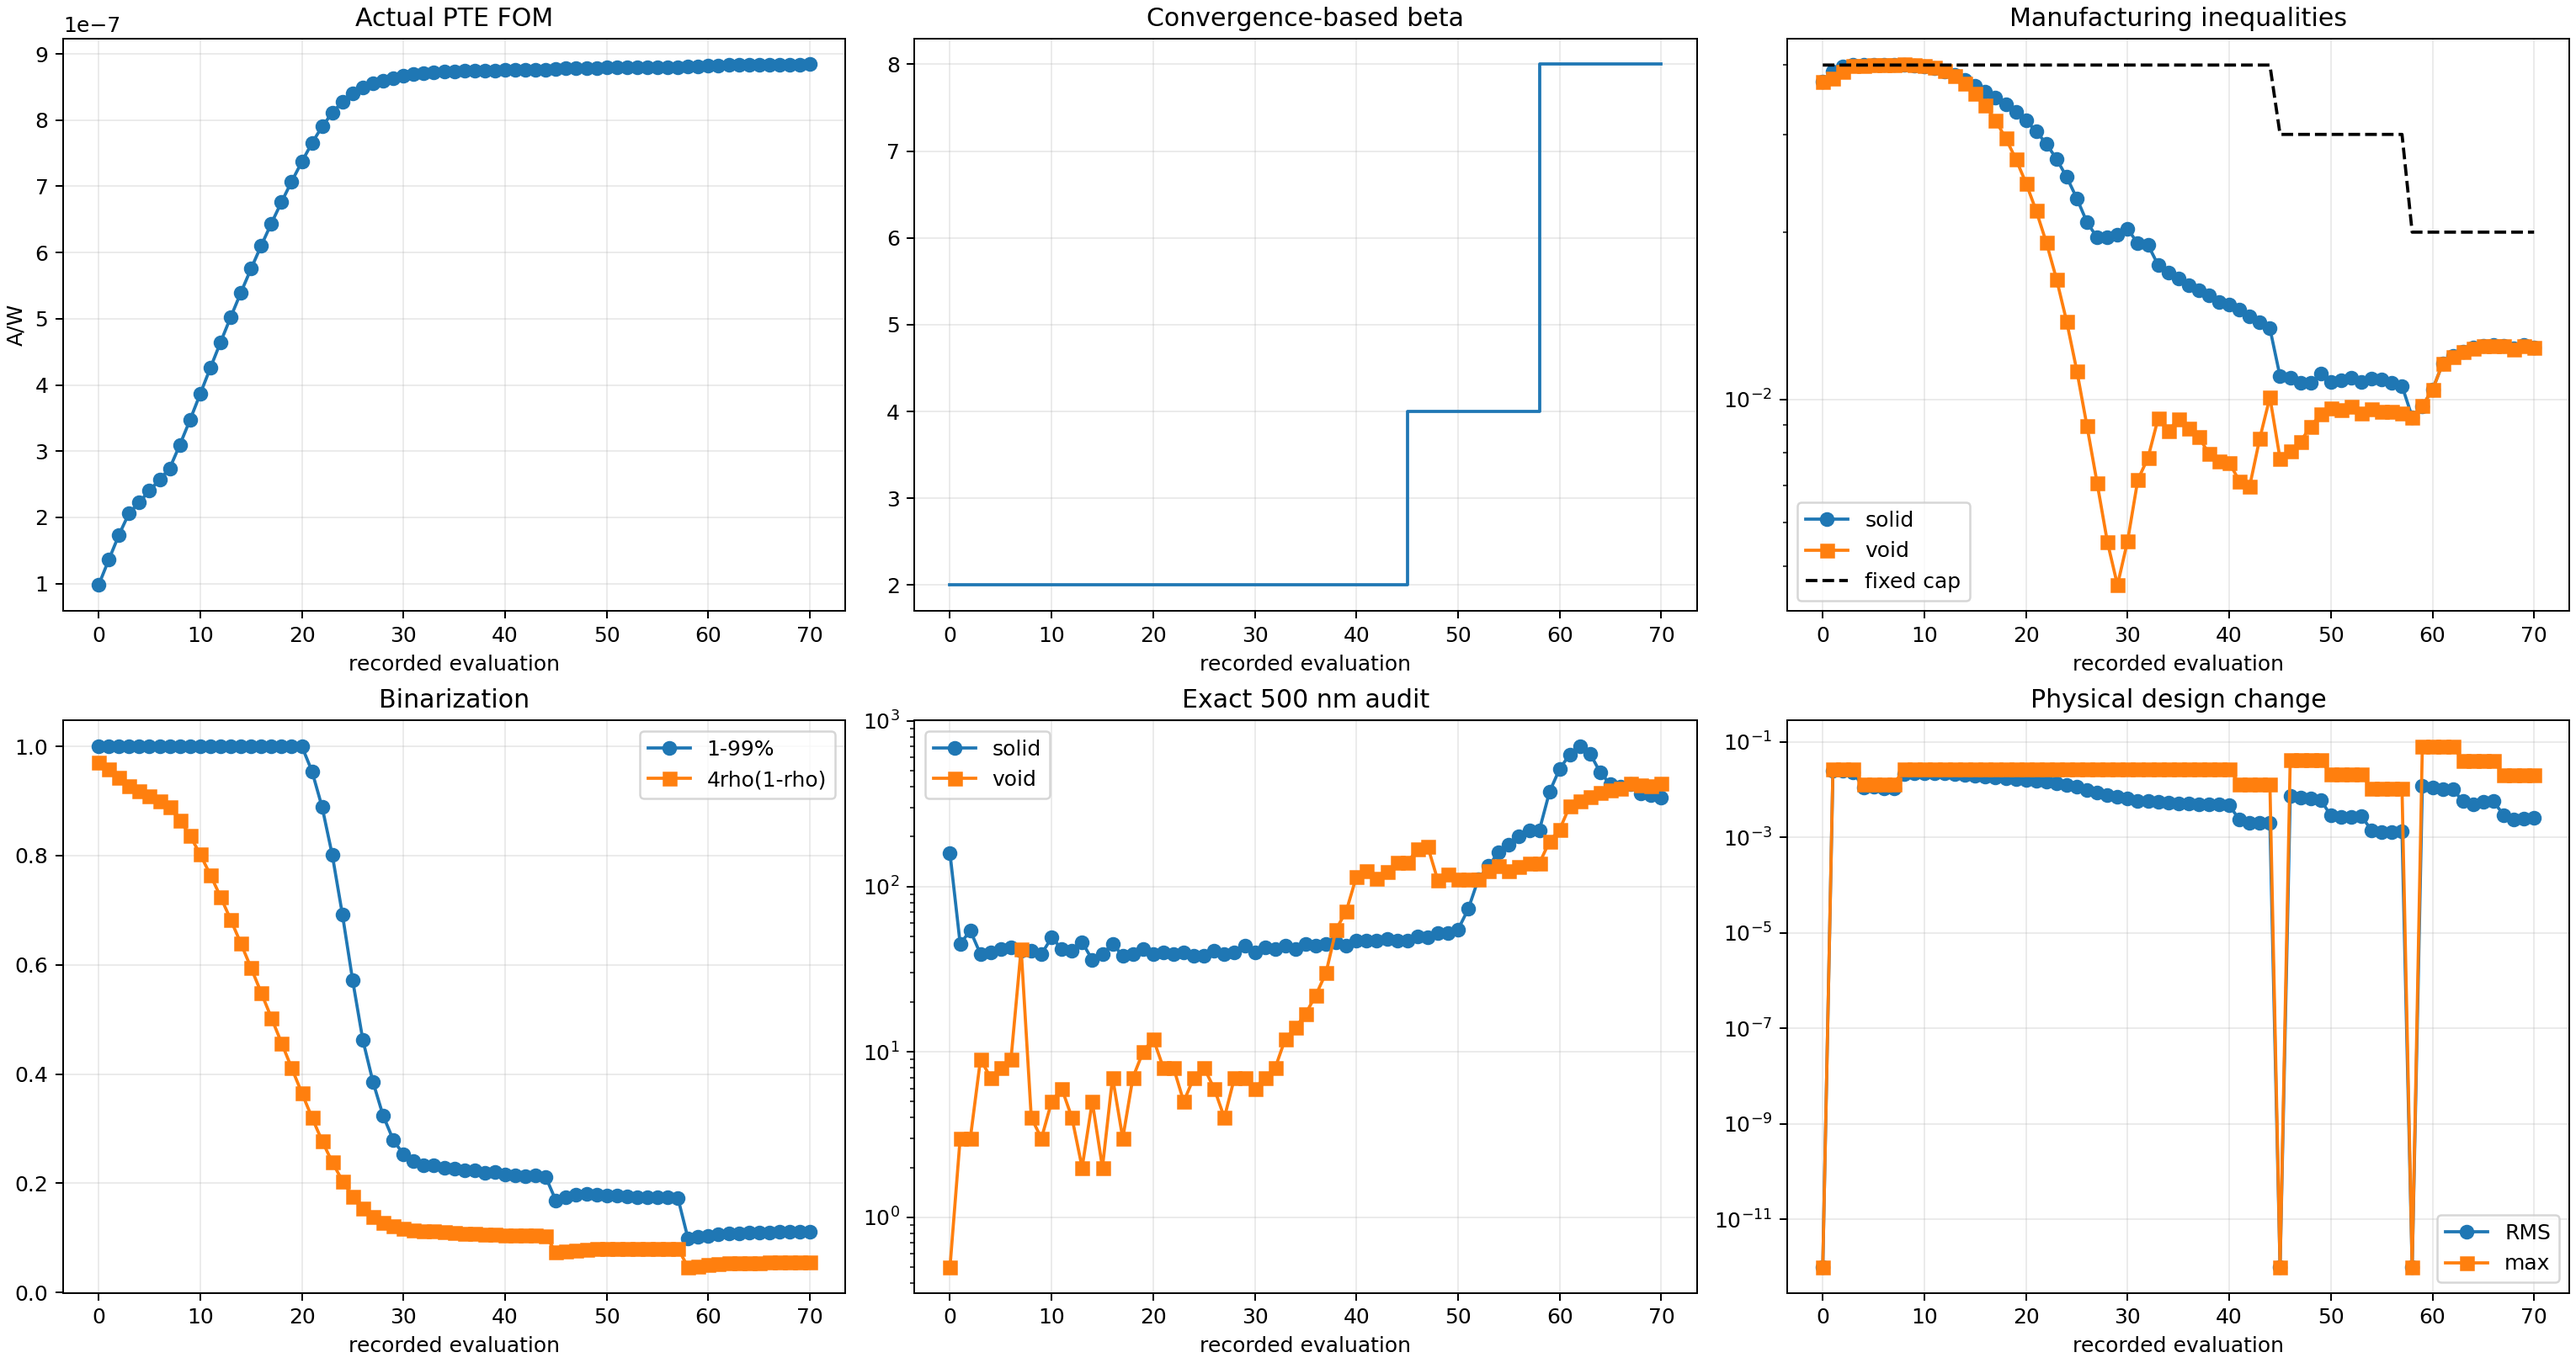
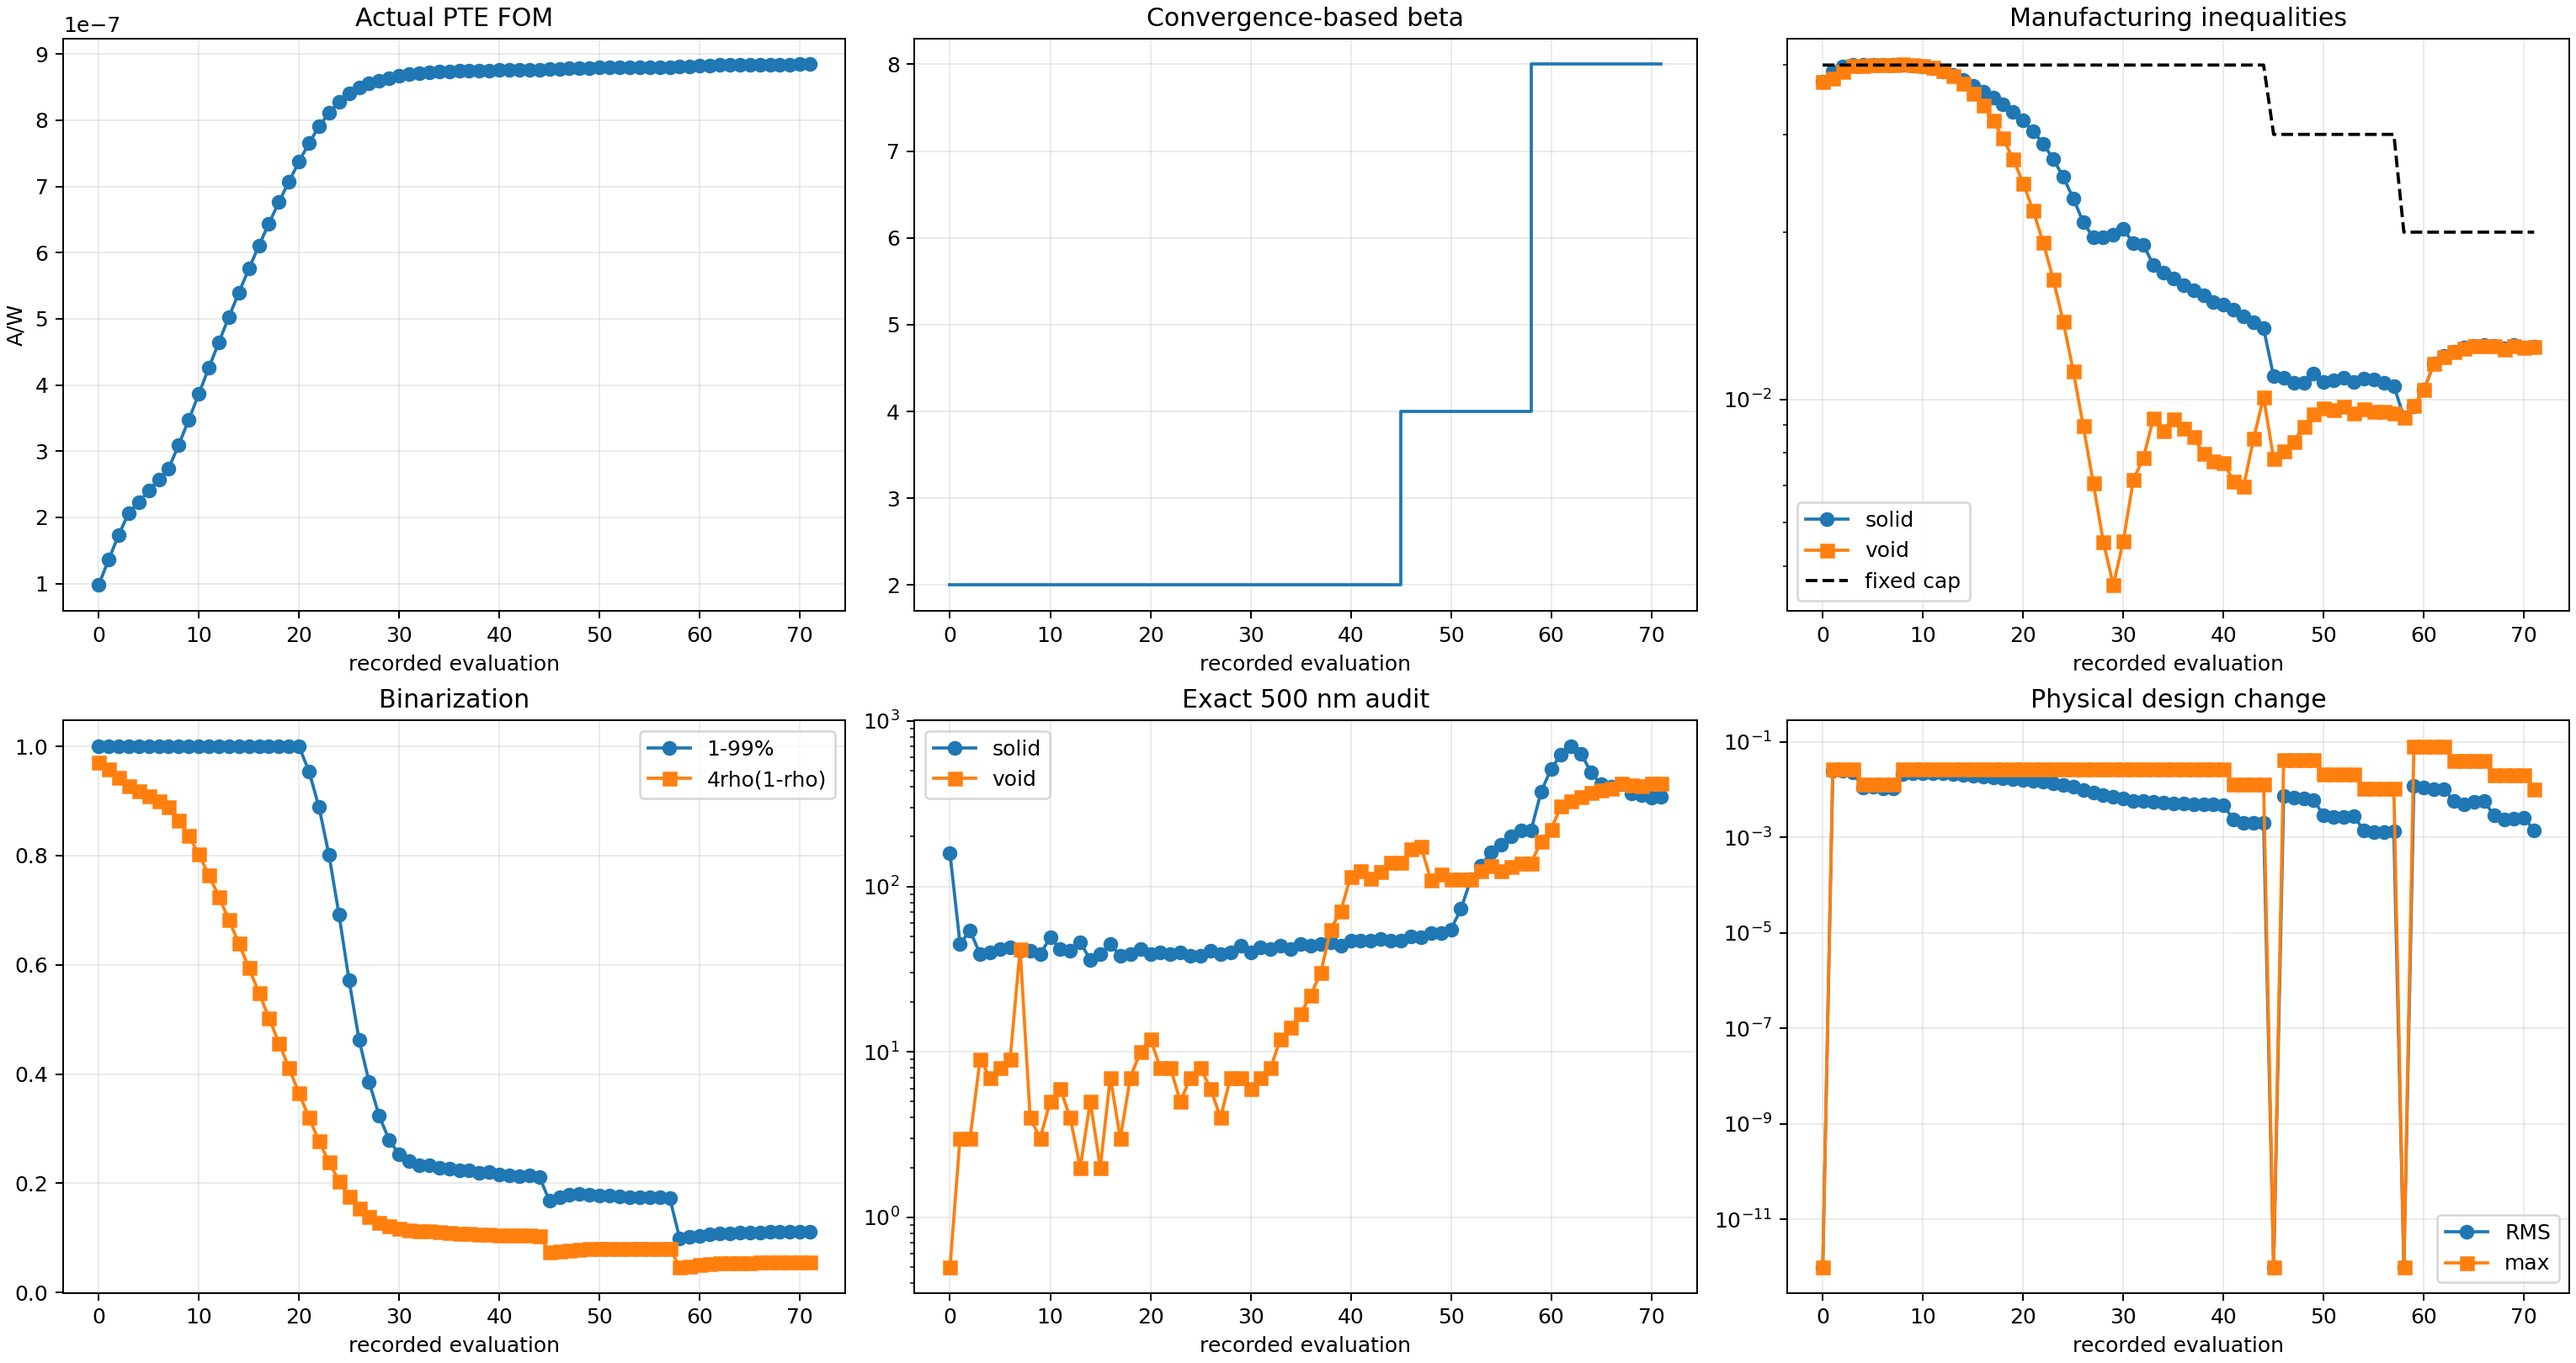
Record Run 003 run003_b008_s013_g069_accepted_mma

diff --git a/photothermal_pte/optimization_runs/run_003_gaussian10_w8p5_current_max_converged/results/OPTIMIZATION_REPORT.md b/photothermal_pte/optimization_runs/run_003_gaussian10_w8p5_current_max_converged/results/OPTIMIZATION_REPORT.md
@@ -2,10 +2,10 @@
 
 Status: `RUNNING_CONVERGENCE_BASED_CONSTRAINED_BETA_CONTINUATION`
 
-Current stage: beta=8, accepted stage iteration=12, global iteration=68.
+Current stage: beta=8, accepted stage iteration=13, global iteration=69.
 
-Actual FOM: `8.842737291722e-07 A/W`. Fixed-cap solid/void constraints: `1.241090e-02` / `1.239651e-02` with cap `2.000000e-02`.
+Actual FOM: `8.843174964193e-07 A/W`. Fixed-cap solid/void constraints: `1.245505e-02` / `1.244206e-02` with cap `2.000000e-02`.
 
-Exact 500 nm bad cells: solid `343`, void `419`. Stage convergence: `False` (recent FOM/density changes have not plateaued).
+Exact 500 nm bad cells: solid `349`, void `422`. Stage convergence: `False` (recent FOM/density changes have not plateaued).
 
 Beta is promoted only after fixed-inequality feasibility and a four-update FOM/design plateau; it is never promoted after one nominal update.
